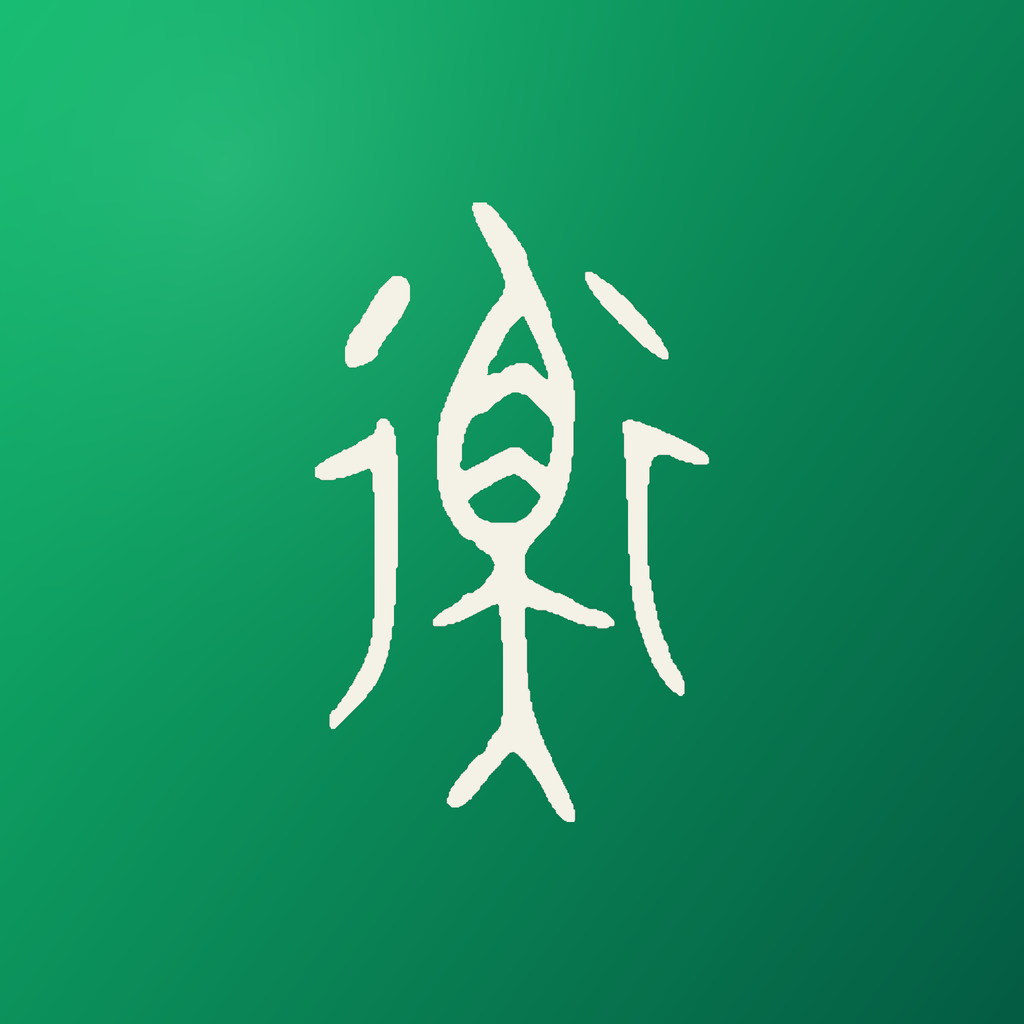
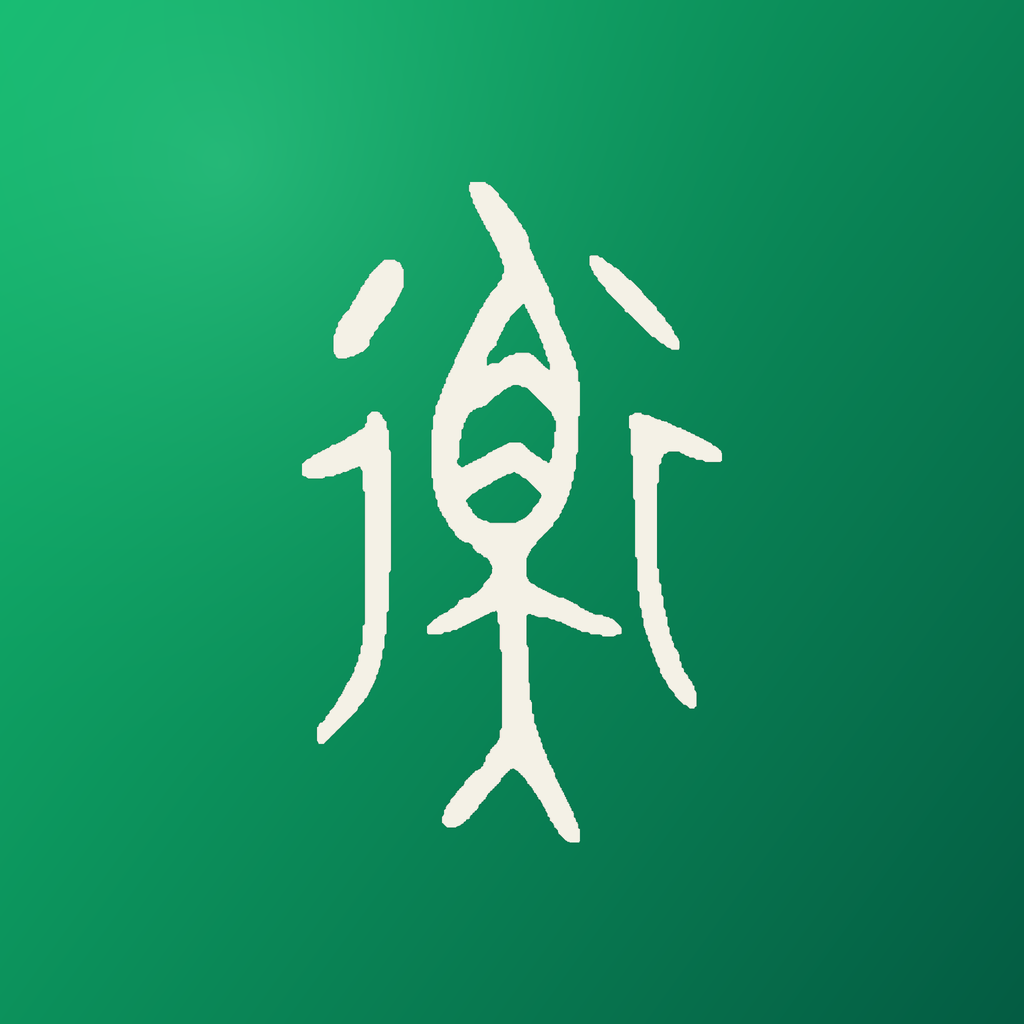
release(1.1): 图标 C（0.645 + 加粗一步），build 19

diff --git a/lib/ui/screens/settings_screen.dart b/lib/ui/screens/settings_screen.dart
@@ -23,7 +23,7 @@ import 'legal_screens.dart';
 
 /// 应用版本号（与 pubspec.yaml 的 `version: 1.0.0+1` 保持一致）。
 const String _kAppVersion = '1.1.0';
-const String _kBuildNumber = '18';
+const String _kBuildNumber = '19';
 
 /// 设置页：外观、触觉反馈、预算入口、数据导出与清空、法务与关于。
 ///

diff --git a/scripts/generate_icon.py b/scripts/generate_icon.py
@@ -3,7 +3,7 @@
 """HENG / 衡记 · App icon generator (Pillow + numpy).
 
 Flat market-green field, no stars, no streaks, no glyph shadow. The oracle-bone
-"衡" glyph is pre-cleaned and slightly boldened in assets/brand/heng_glyph_bold.png
+"衡" glyph is cleaned and boldened in assets/brand/heng_glyph_bolder.png
 so it survives 20–60 px.
 
 Usage (repo root):
@@ -27,12 +27,12 @@ ROOT = Path(__file__).resolve().parents[1]
 MASTER_PATH = ROOT / "assets" / "app_icon_1024.png"
 ICONSET_DIR = ROOT / "ios" / "Runner" / "Assets.xcassets" / "AppIcon.appiconset"
 CONTENTS_PATH = ICONSET_DIR / "Contents.json"
-GLYPH_PATH = ROOT / "assets" / "brand" / "heng_glyph_bold.png"
+GLYPH_PATH = ROOT / "assets" / "brand" / "heng_glyph_bolder.png"
 
 CANVAS = 1024
 SUPERSAMPLE = 2
 S = CANVAS * SUPERSAMPLE
-GLYPH_HEIGHT_RATIO = 0.605
+GLYPH_HEIGHT_RATIO = 0.645
 INK = (244, 241, 230)  # warm cream
 
 # Rising-market green: vivid jade at the light end, deep pine at the dark end.

diff --git a/docs/PROJECT_STATE.md b/docs/PROJECT_STATE.md
@@ -290,6 +290,7 @@
 - TestFlight 1.1.0 (16) 已上传并挂内部组。
 - TestFlight 1.1.0 (17) 已挂组：印章正方形并移到 HENG 右侧。
 - TestFlight 1.1.0 (18) 已挂组：品牌更名「衡记」+ 股票绿图标（去星点/阴影）+ HENG 42px/印章 24px。
+- TestFlight 1.1.0 (19) 已挂组：图标 C（字形 0.645 + 加粗一步），无额外膨胀。
 
 ## 下一步
 
